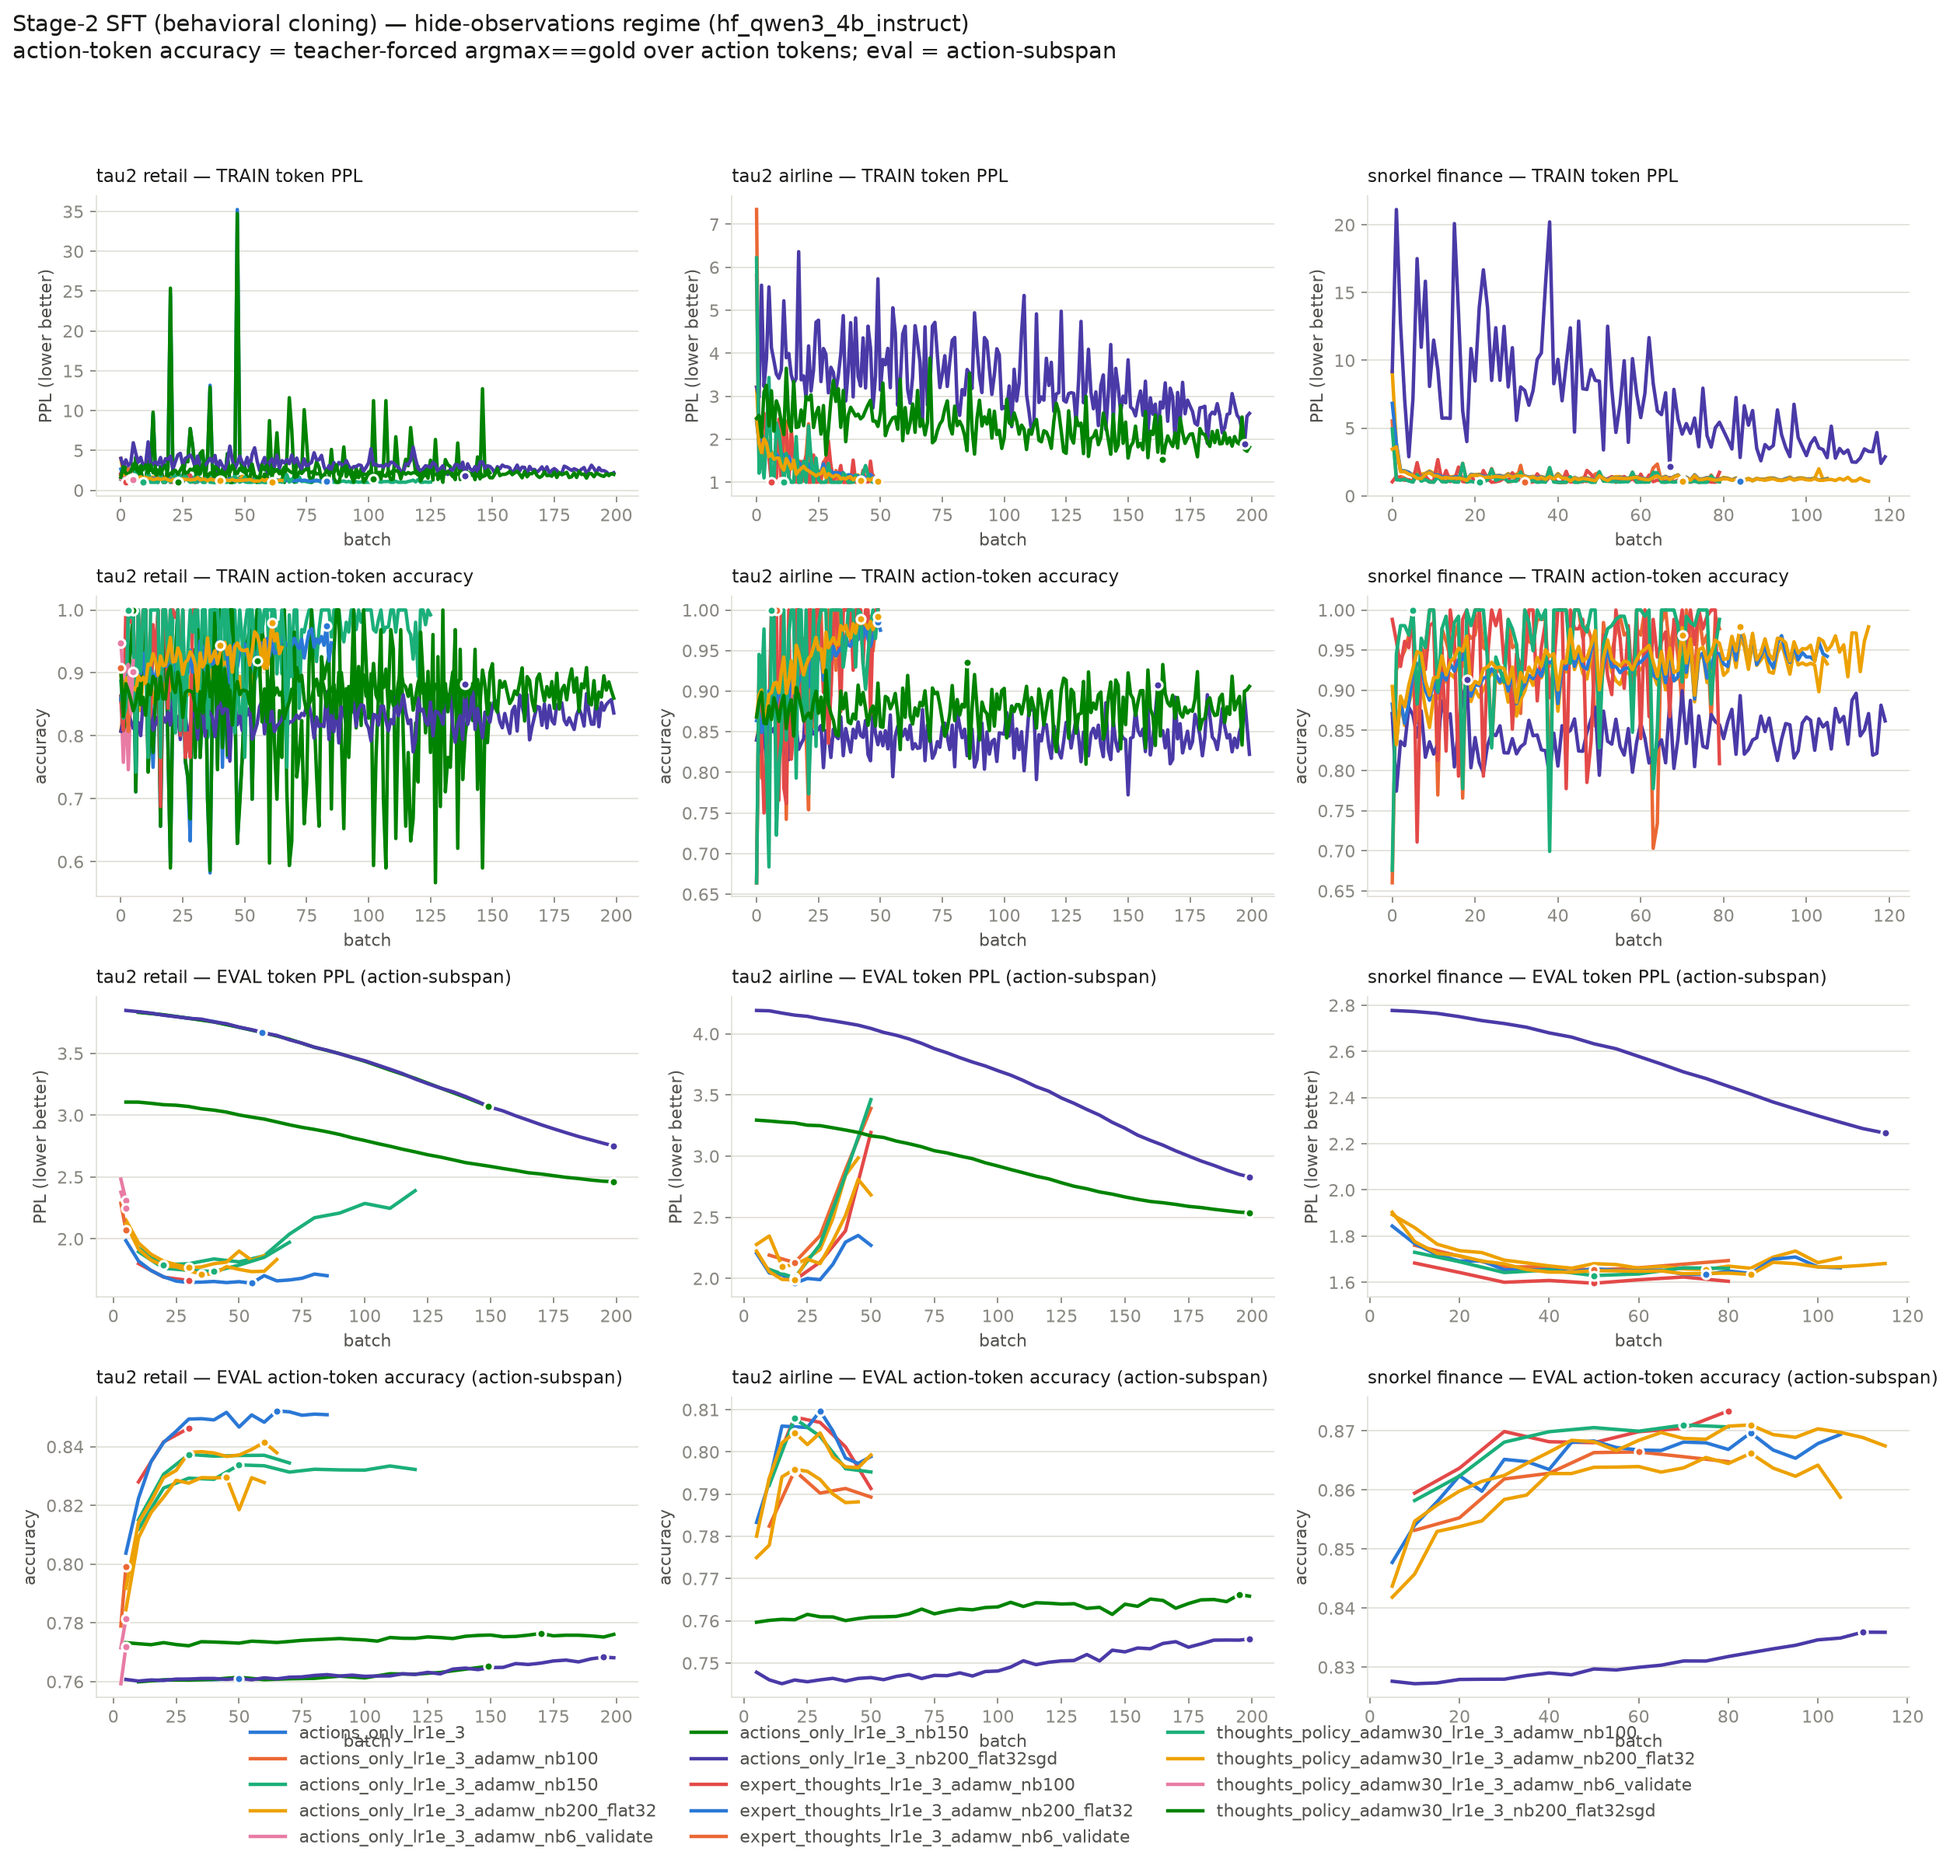
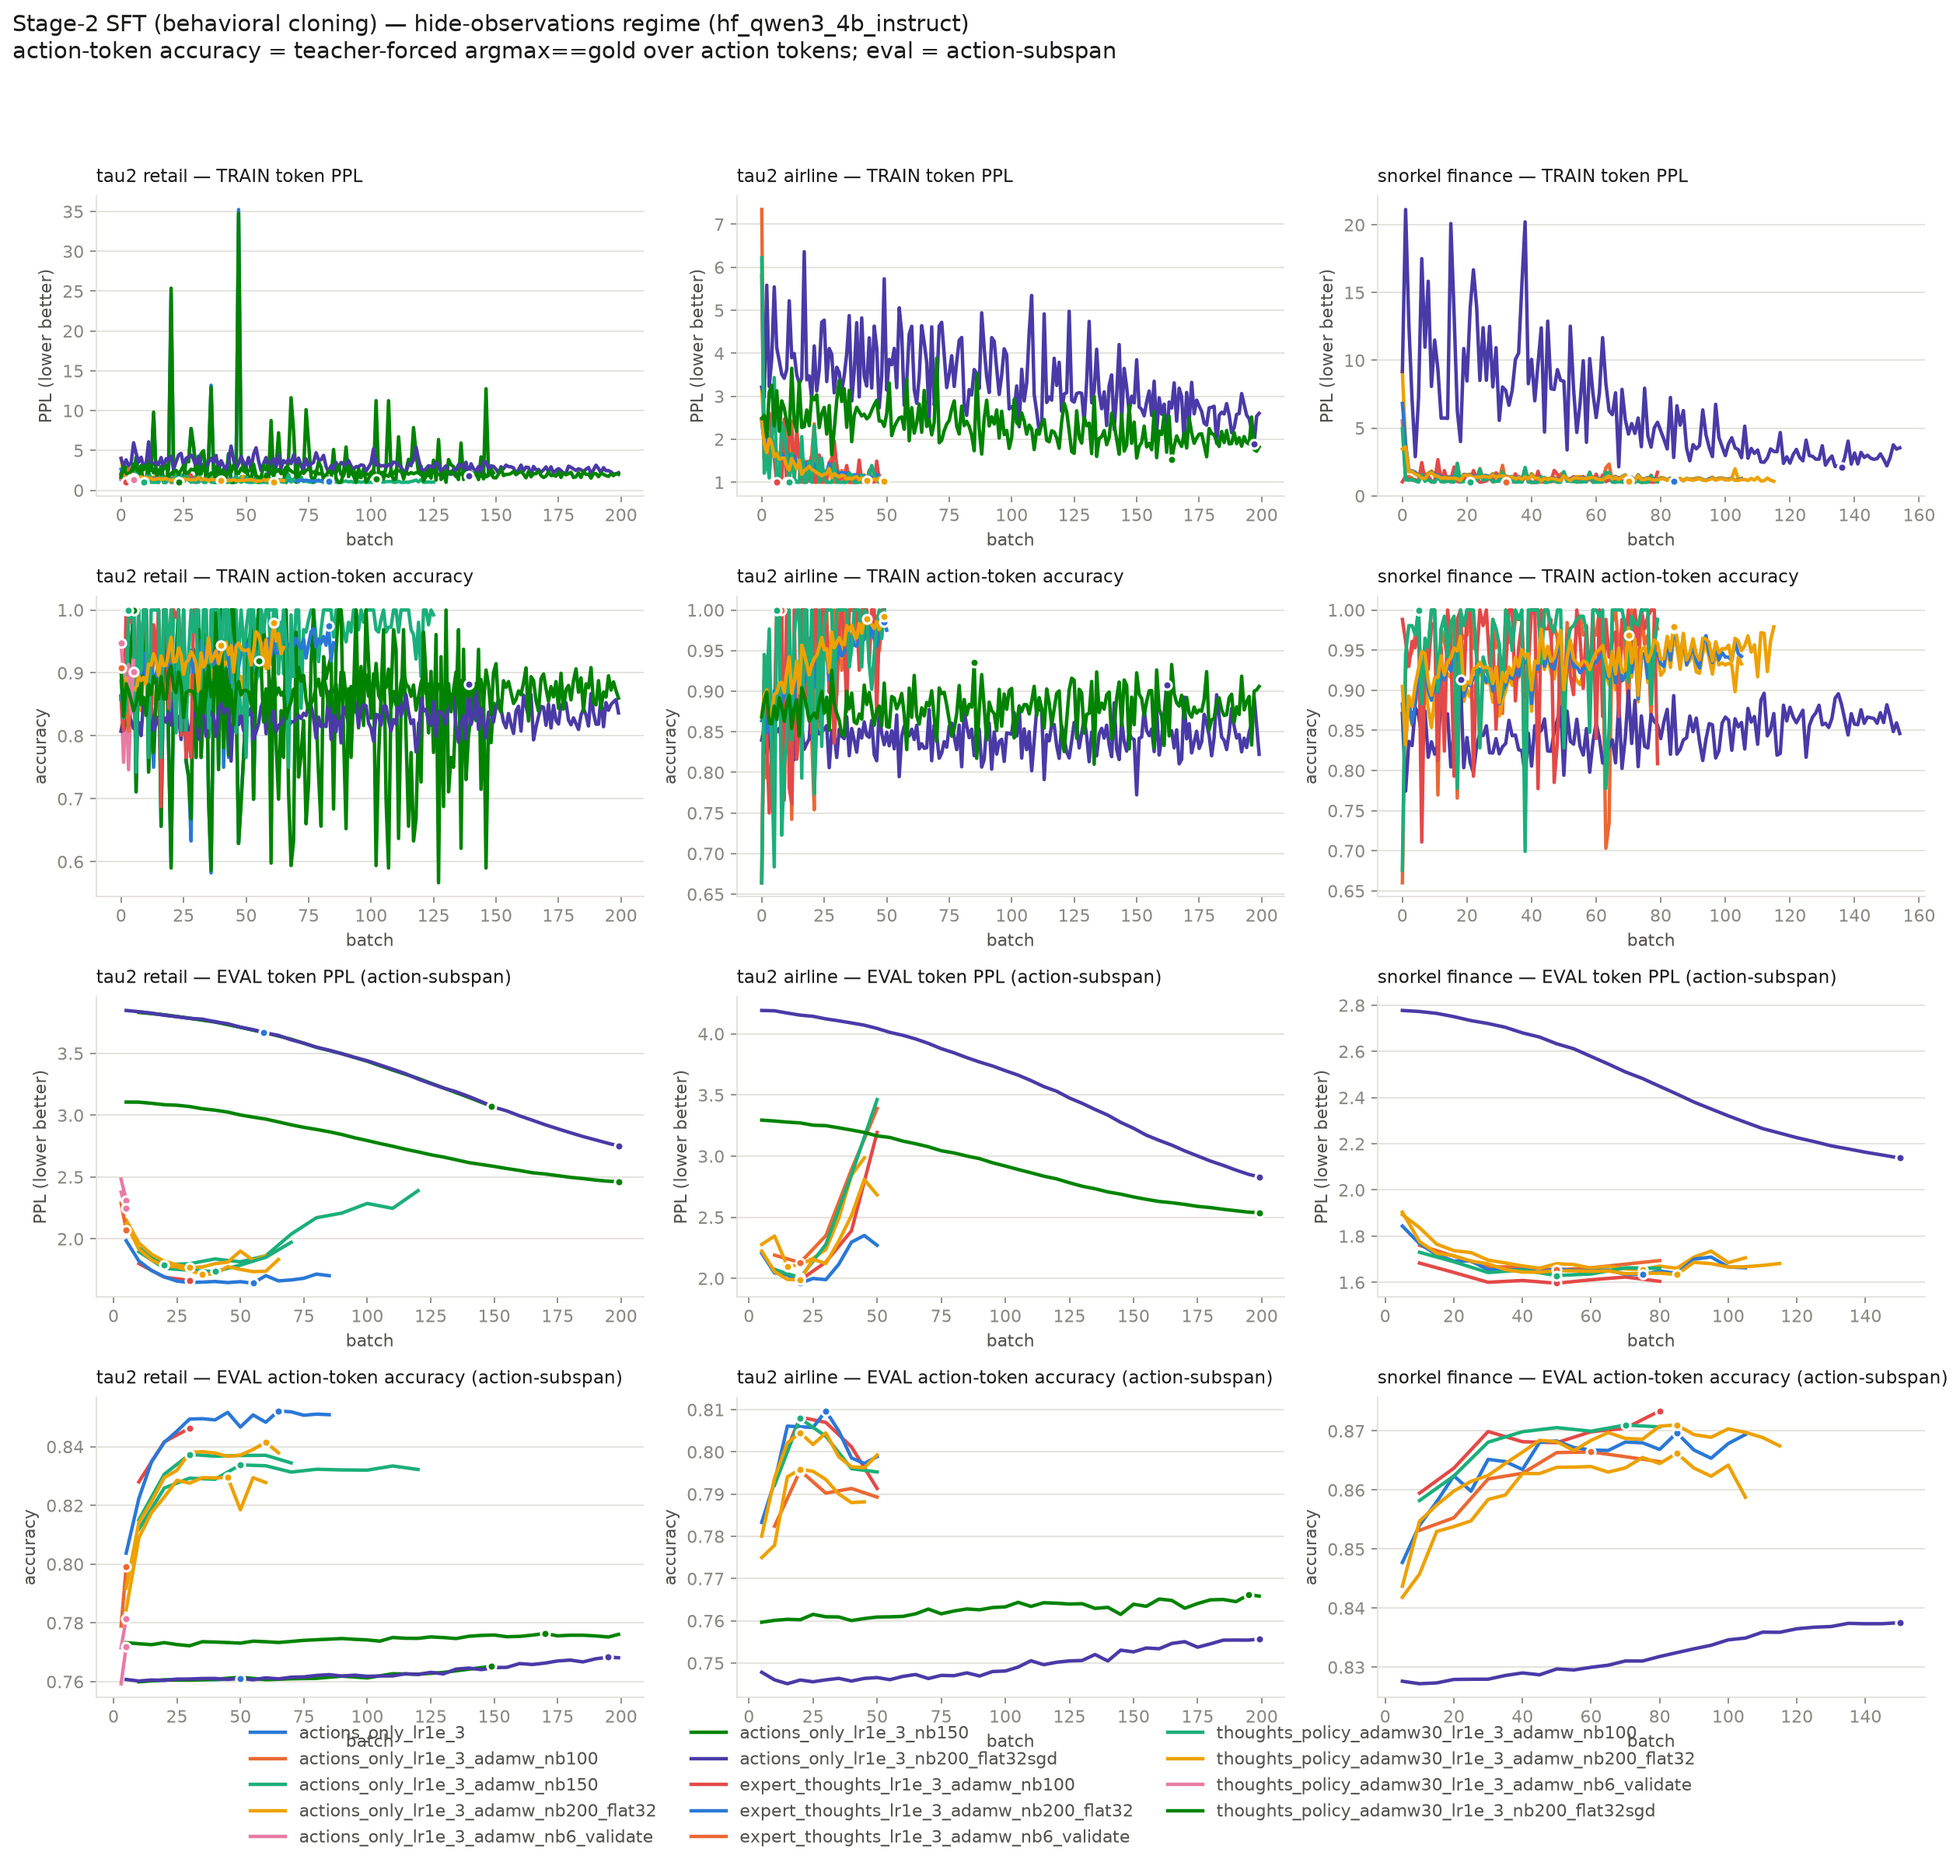
auto: SFT LR sweep results snapshot

diff --git a/notes/cc-5.0-sft-lr-investigation.md b/notes/cc-5.0-sft-lr-investigation.md
@@ -387,7 +387,7 @@ airline/thoughts_policy_adamw30_lr1e_3_adamw_nb200_flat32 hide   50     2.2230 -
 airline/thoughts_policy_adamw30_lr1e_3_nb200_flat32sgd hide  199     3.2944 ->   2.5375  22.98%  0.7658        1.8220
 snorkel_finance_split/actions_only_lr1e_3_adamw_nb100 hide   80     1.7603 ->   1.6942   3.75%  0.8648        1.0391  <running>
 snorkel_finance_split/actions_only_lr1e_3_adamw_nb200_flat32 hide  105     1.8934 ->   1.7063   9.88%  0.8588        1.2878  <running>
-snorkel_finance_split/actions_only_lr1e_3_nb200_flat32sgd hide  119     2.7774 ->   2.2462  19.12%  0.8359        2.8796  <running>
+snorkel_finance_split/actions_only_lr1e_3_nb200_flat32sgd hide  154     2.7774 ->   2.1384  23.01%  0.8375        3.5442  <running>
 snorkel_finance_split/expert_thoughts_lr1e_3_adamw_nb100 hide   80     1.6835 ->   1.6045   4.69%  0.8734        1.7344  <running>
 snorkel_finance_split/expert_thoughts_lr1e_3_adamw_nb200_flat32 hide  105     1.8436 ->   1.6628   9.80%  0.8694        1.2493  <running>
 snorkel_finance_split/thoughts_policy_adamw30_lr1e_3_adamw_nb100 hide   80     1.7302 ->   1.6604   4.03%  0.8707        1.0391  <running>
@@ -395,7 +395,7 @@ snorkel_finance_split/thoughts_policy_adamw30_lr1e_3_adamw_nb200_flat32 hide  11
 
 9/29 arms complete   (Δ% = held-out action-subspan PPL improvement, higher is better)
 ```
-_last refreshed: 2026-09-02 09:00_
+_last refreshed: 2026-09-02 09:20_
 <!--/RESULTS-->
 
 ## Infrastructure

diff --git a/notes/cc-3.0-snorkel_finance_split_sft_results.md b/notes/cc-3.0-snorkel_finance_split_sft_results.md
@@ -21,7 +21,7 @@ for wordiness rather than for mispredicting the action, which inverts the rankin
 | thoughts_base | full | 2.0637 | 0.8837 | 40 | 2.7097 | 0.8058 | 30 | 0.8326 |
 | actions_only_lr1e_3_adamw_nb100 | hide | 1.6535 | 0.8663 | 50 | 1.6535 | 0.8663 | 50 | 0.0356 |
 | actions_only_lr1e_3_adamw_nb200_flat32 | hide | 1.6554 | 0.8655 | 75 | — | — | — | 0.2118 |
-| actions_only_lr1e_3_nb200_flat32sgd | hide | 2.2462 | 0.8359 | 115 | — | — | — | 0.7087 |
+| actions_only_lr1e_3_nb200_flat32sgd | hide | 2.1384 | 0.8375 | 150 | — | — | — | 0.8729 |
 | actions_only_lr3e_3_nb150 | hide | 1.8930 | 0.8398 | 149 | 1.8930 | 0.8398 | 149 | 0.3245 |
 | actions_only_v3_lr3e_3_nb150 | hide | 1.9282 | 0.8407 | 149 | 1.9282 | 0.8407 | 149 | 0.4563 |
 | expert_thoughts_all_v3_lr3e_3_nb150 | hide | 1.9557 | 0.8413 | 149 | 1.9918 | 0.8336 | 149 | 1.5311 |
